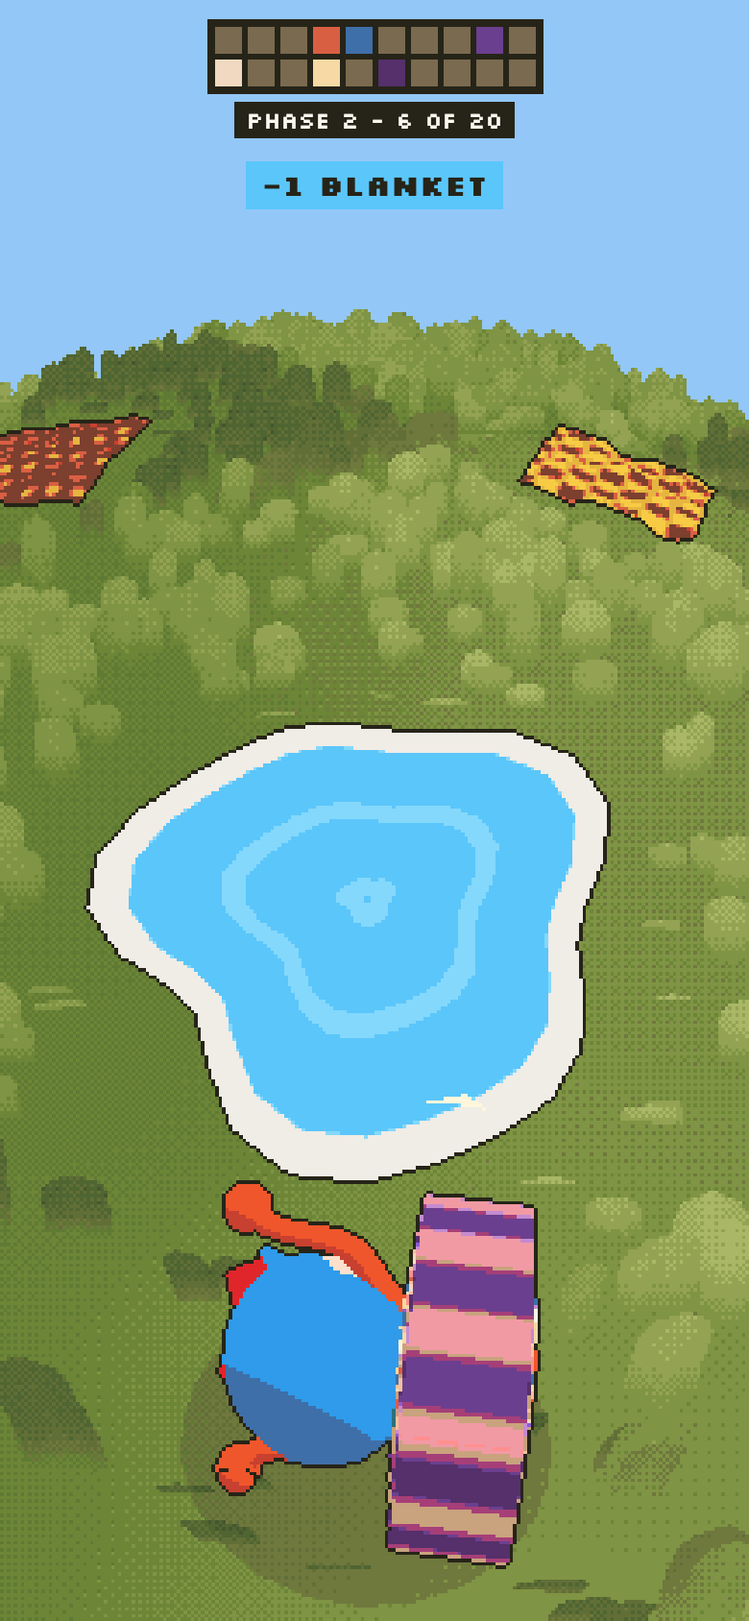
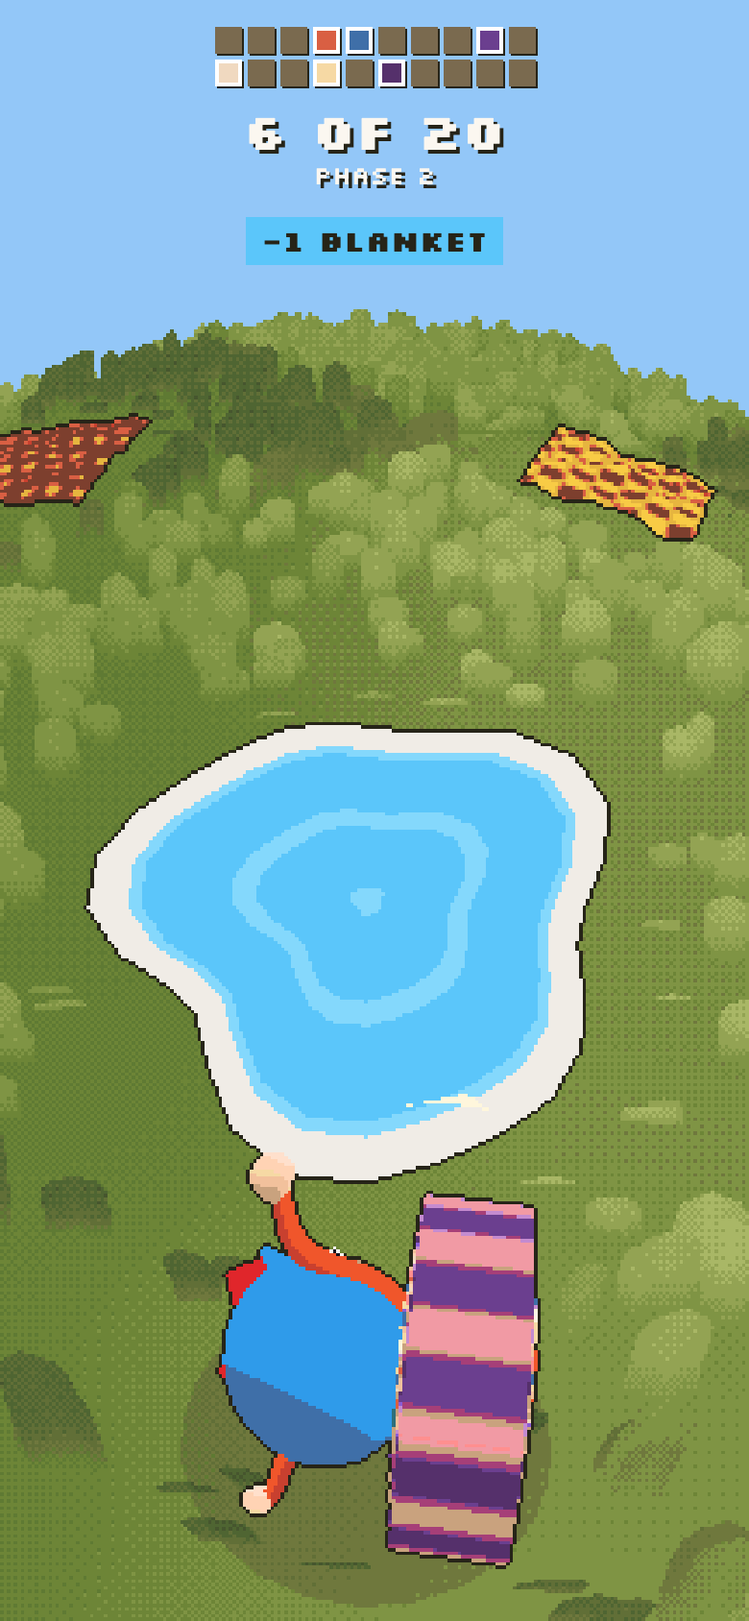
Show phase below larger blanket count

diff --git a/index.html b/index.html
@@ -58,7 +58,9 @@ button:focus-visible { outline: 2px solid var(--paper); outline-offset: 2px; }
 #pips.dense { grid-template-columns: repeat(20, 8px); gap: 2px; }
 #pips.dense i { width: 8px; height: 8px; }
 #pips.dense i.on { box-shadow: inset 0 0 0 1px #fff; }
-#count { padding: 2px 6px; font-size: 14px; font-weight: 700; font-variant-numeric: tabular-nums; text-shadow: 2px 2px 0 var(--ink); }
+#count { display: flex; flex-direction: column; align-items: center; gap: 2px; padding: 2px 6px; font-variant-numeric: tabular-nums; text-shadow: 2px 2px 0 var(--ink); }
+#count-amount { font-size: 26px; font-weight: 700; line-height: 1.05; }
+#count-phase { font-size: 13px; line-height: 1.1; }
 #toast { margin-top: 8px; padding: 3px 8px; background: #5bc6fa; color: var(--ink); font-size: 15px; font-weight: 700; }
 #hint { position: absolute; left: 50%; top: calc(100dvh - env(safe-area-inset-top) - 52px); width: max-content; max-width: 92%; margin: 0; padding: 3px 6px; transform: translateX(-50%); background: var(--ink); font-size: 10px; text-align: center; }
 #hint.gone { display: none; }
@@ -77,7 +79,7 @@ button:focus-visible { outline: 2px solid var(--paper); outline-offset: 2px; }
 
     <section id="hud" class="hidden" aria-label="Blankets collected">
       <div id="pips" aria-hidden="true"></div>
-      <div id="count" role="status">Phase 1 - 0 of 10</div>
+      <div id="count" role="status"><span id="count-amount">0 of 10</span> <span id="count-phase">Phase 1</span></div>
       <div id="toast" class="hidden" role="status"></div>
       <p id="hint">Drag or use arrow keys to roll</p>
     </section>
@@ -4203,7 +4205,7 @@ ${r.vertexShader}`.replace("#include <begin_vertex>",`#include <begin_vertex>
        float along = clamp(wave / uLength, 0.0, 1.0);
        float reach = along * along * (3.0 - 2.0 * along);
        transformed.x += uAmount * reach * sin(wave * 3.3 - uT * 8.5 + uPhase);
-       transformed.z += uAmount * 0.75 * reach * cos(wave * 2.6 - uT * 6.7 + uPhase * 1.7);`)},s}function ou(i,t,e){let n={value:.2*t.hillWiggle},s=ru*t.hillArmLength;return{arms:i.userData.arms.map(({group:o,side:a})=>{o.visible=!1;let c=new Pe;c.position.copy(o.position);let l=new qt(Sx(t),bx(e,n,a>0?0:2.3,s));return l.castShadow=!0,c.add(l),i.add(c),{pivot:c,side:a}}),wiggle:n}}function au(i){for(let{pivot:t}of i.arms)t.children[0].geometry.dispose(),t.children[0].material.dispose()}function cu(i,t,e){let n=$i.degToRad(t.hillArmSpread),s=nu+(n-nu)*e;for(let{pivot:r,side:o}of i.arms)r.rotation.z=-o*s}function lu(i,t){i.geometry.computeBoundingBox();let e=i.geometry.boundingBox,n=yx*t.hillSize,s=n/(e.max.y-e.min.y),r=(e.max.y+e.min.y)/2*s,o=(Mx+.3*(t.legLength-1))*t.bodySize*s-r+.03,a=e.min.y*s-r+.16;return{fit:s,middle:r,top:o,bottom:a,height:n}}var Ex=26,hu=16,wx=.3,Gc=26,uu=i=>Math.atan2(Math.sin(i),Math.cos(i)),Tx=i=>iu+su*Math.min(i,10)+.09*Math.max(Math.min(i,20)-10,0)+.04*Math.max(i-20,0),ho=class{constructor(t){this.root=new Pe,this.lay=new Pe,this.spin=new Pe,this.root.add(this.lay),this.lay.add(this.spin),t.add(this.root),this.time={value:0},this.holder=new Pe,this.spin.add(this.holder),this.layers=[],this.armLift=0,this.shadow=new qt(new Xi(1,24),new zn({color:"#2f3a22",transparent:!0,opacity:.28,depthWrite:!1})),t.add(this.shadow),this.slope={x:0,z:0},Object.assign(this,{x:0,z:2.2,yaw:0,rollAngle:0,layAmount:0}),this.setCharacter(hn[0]),this.reset(0,2.2)}setCharacter(t){this.figure&&(this.holder.remove(this.figure),this.figure.traverse(s=>s.geometry?.dispose()),au(this.armRig)),this.def=t;let e=Gh(t);this.figure=e,this.holder.add(e),this.armRig=ou(e,t,this.time);let n=lu(e,t);this.holder.scale.setScalar(n.fit),this.holder.position.y=-n.middle,this.standHeight=n.height/2,this.baseRadius=Math.max(.72,.6*t.headSize*n.fit),this.wrapLength=n.top-n.bottom,this.wrapCenter=(n.top+n.bottom)/2;for(let s of this.layers)s.mesh.position.y=this.wrapCenter;this.setArms(this.armLift),this.radius=this.baseRadius,this.place()}setArms(t){this.armLift=t,cu(this.armRig,this.def,t)}reset(t,e){this.x=t,this.z=e,this.vx=0,this.vz=0,this.yaw=0,this.rollAngle=0,this.layAmount=0,this.radius=this.baseRadius,this.distance=0,this.clearWrap(),this.setArms(0),this.place()}get speed(){return Math.hypot(this.vx,this.vz)}removeLayer(t){this.spin.remove(t.mesh),t.mesh.geometry.dispose(),t.mesh.material.forEach(e=>e.dispose())}clearWrap(){for(let t of[...this.layers,...this.loose??[]])this.removeLayer(t);this.layers=[],this.loose=[],this.unwinding=0}wrap(t){let e=new tn({...ci,map:t.map}),n=new tn({...ci,color:t.design.b}),s=new Fe(1,1,1,30),r=s.attributes.uv;for(let c=0;c<r.count;c++)r.setXY(c,r.getX(c)*3,r.getY(c));let o=new qt(s,[e,n,n]);o.position.y=this.wrapCenter,this.spin.add(o);let a=this.layers.length?this.layers.at(-1).radius:.5;this.layers.push({item:t,mesh:o,radius:a,goal:Tx(this.layers.length)*this.def.hillSize})}peel(){let t=this.layers.pop();return t?(this.removeLayer(t),t.item):null}unwind(){this.loose=this.layers,this.layers=[],this.unwinding=.5}updateLayers(t){if(this.unwinding>0){this.unwinding=Math.max(0,this.unwinding-t);let s=this.unwinding/.5;for(let r of this.loose)r.radius=.2+(r.radius-.2)*s,r.mesh.scale.x=r.mesh.scale.z=r.radius;this.unwinding===0&&(this.loose.forEach(r=>this.removeLayer(r)),this.loose=[])}let e=this.layers.length,n=this.baseRadius;this.layers.forEach((s,r)=>{s.radius+=(s.goal-s.radius)*(1-Math.exp(-11*t)),s.mesh.scale.set(s.radius,this.wrapLength+(e-r)*Math.min(.035,.7/e),s.radius),n=Math.max(n,s.radius)}),this.radius+=(n-this.radius)*(1-Math.exp(-9*t))}update(t,e,n,s){if(this.time.value+=t*this.def.hillWiggleSpeed,this.updateLayers(t),s){let r=Bc(this.x,this.z,this.slope),o=Ex/(1+r.x*r.x+r.z*r.z);this.vx+=(-r.x*o+e*hu)*t,this.vz+=(-r.z*o+n*hu)*t;let a=Math.exp(-wx*t);this.vx*=a,this.vz*=a;let c=this.speed;if(c>Gc&&(this.vx*=Gc/c,this.vz*=Gc/c),this.x+=this.vx*t,this.z+=this.vz*t,this.keepInWorld(),this.speed>.4){let h=Math.atan2(-this.vx,-this.vz),u=uu(h-this.yaw),f=uu(h+Math.PI-this.yaw);this.yaw+=(Math.abs(u)<Math.abs(f)?u:f)*(1-Math.exp(-7*t))}let l=-Math.sin(this.yaw)*this.vx-Math.cos(this.yaw)*this.vz;this.rollAngle-=l*t/this.radius,this.distance+=this.speed*t,this.armRig.wiggle.value=(.2+Math.min(.16,this.speed*.012))*this.def.hillWiggle}else this.armRig.wiggle.value=.22*this.def.hillWiggle;this.place()}keepInWorld(){let t=Math.hypot(this.x,this.z);if(t<=128)return;let e=this.x/t,n=this.z/t;this.x=e*128,this.z=n*128;let s=this.vx*e+this.vz*n;s>0&&(this.vx-=s*e*1.3,this.vz-=s*n*1.3)}place(){let t=de(this.x,this.z),e=Bc(this.x,this.z,this.slope),n=new R(-e.x,1,-e.z).normalize(),s=new R(0,1,0).lerp(n,this.layAmount).normalize(),r=new R(-Math.sin(this.yaw),0,-Math.cos(this.yaw));r.addScaledVector(s,-r.dot(s)).normalize();let o=r.clone().negate(),a=new R().crossVectors(s,o).normalize();this.root.quaternion.setFromRotationMatrix(new Qt().makeBasis(a,s,o));let c=this.standHeight+(this.radius-this.standHeight)*this.layAmount;this.root.position.set(this.x,t,this.z).addScaledVector(s,c),this.lay.rotation.z=-Math.PI/2*this.layAmount,this.spin.rotation.y=this.rollAngle,this.shadow.position.set(this.x,t+.34,this.z).addScaledVector(n,.05),this.shadow.quaternion.setFromUnitVectors(new R(0,0,1),n);let l=.3+this.radius*.95;this.shadow.scale.set(l,l,1)}};var fu=[0,2,4,7,9,12,14,16,19,21],du="blanket-hill-sound",uo=class{constructor(){try{this.enabled=localStorage.getItem(du)!=="off"}catch{this.enabled=!0}this.ctx=null;let t=()=>{if(!this.ctx){let e=window.AudioContext||window.webkitAudioContext;if(!e)return;this.ctx=new e,this.master=this.ctx.createGain(),this.master.gain.value=this.enabled?.22:0,this.master.connect(this.ctx.destination)}this.ctx.state==="suspended"&&this.ctx.resume()};addEventListener("pointerdown",t),addEventListener("keydown",t)}toggle(){this.enabled=!this.enabled;try{localStorage.setItem(du,this.enabled?"on":"off")}catch{}return this.master&&(this.master.gain.value=this.enabled?.22:0),this.enabled}tone(t,e,n,s){if(!this.enabled||this.ctx?.state!=="running")return;let r=this.ctx.currentTime+e,o=this.ctx.createOscillator(),a=this.ctx.createGain();o.type="sine",o.frequency.value=t,a.gain.setValueAtTime(.001,r),a.gain.exponentialRampToValueAtTime(s,r+.02),a.gain.exponentialRampToValueAtTime(.001,r+n),o.connect(a),a.connect(this.master),o.start(r),o.stop(r+n+.02)}wrap(t){let e=330*2**(fu[t%fu.length]/12);this.tone(e,0,.32,.5),this.tone(e*2,.05,.2,.16)}splash(){this.tone(520,0,.12,.3),this.tone(340,.05,.16,.26),this.tone(220,.11,.22,.22)}snug(){[262,330,392,523,659].forEach((t,e)=>this.tone(t,e*.09,.9,.34))}};var Os=2.1,Ax=3.2,fo=58,Rx=1.2,Cx=1.1,Ix=.24,Px=.37,Bs=216,pu="blanket-hill-character",mu="#fff6dc",Lx=["#262418","#3f4e2c","#46562e","#4f6532","#5f7a33","#616f37","#6d8537","#6f783d","#7f9444","#93a353","#a9b766",...Fs],Dx=[mu,"#262418","#ffffff","#fbf7f0","#17131f",...ts,...Ns.flatMap(i=>[i.a,i.b])],Ux=()=>{let i=hn.findIndex(t=>t.id===new URLSearchParams(location.search).get("character"));if(i>=0)return i;try{return Math.max(0,hn.findIndex(t=>t.id===localStorage.getItem(pu)))}catch{return 0}},jt=i=>document.getElementById(i),Wc=(i,t,e)=>$i.smoothstep(e,i,t),Xc=class{constructor(){let t=matchMedia("(prefers-reduced-motion: reduce)").matches;this.canvas=jt("game"),this.renderer=new Rr({canvas:this.canvas,antialias:!1}),this.renderer.setPixelRatio(1),this.pipeline=new eo(this.renderer,Bs,Bs*2,{palette:Lx,accents:Dx,drawnSky:!0}),this.scene=new Gi,this.scene.fog=new Cr("#6f783d",90,240),this.camera=new Ce(60,1,.1,900);let e=new Hr("#f2f6fa","#b9b27e",1.75),n=new Vr("#fff8ec",2.5);n.position.set(18,60,34),this.scene.add(e,n);for(let s of[e,n])s.layers.enable(li);this.scenery=new oo(this.scene,t),this.blankets=new io(this.scene),this.puddles=new lo(this.scene),this.player=new ho(this.scene),this.sound=new uo,this.pointer=this.makePointer(),this.mode="menu",this.clock=0,this.time=0,this.rounds=0,this.phase=0,this.safe=0,this.toastTimer=0,this.heading=0,this.keys=new Set,this.stick={id:null,x:0,y:0,ox:0,oy:0},this.look=new R(0,de(0,2)+1,2),this.camera.position.set(0,de(0,2)+2.2,11.6),this.buildPicker(),this.selectCharacter(Ux()),this.setupPhase(),this.bindInput(),addEventListener("resize",()=>this.resize()),this.resize(),this.last=performance.now(),this.renderer.setAnimationLoop(s=>this.frame(s))}makePointer(){let t=new ni;t.moveTo(0,.62),t.lineTo(.44,-.3),t.lineTo(0,-.08),t.lineTo(-.44,-.3),t.closePath();let e=new Yi(t);e.rotateX(-Math.PI/2);let n=new qt(e,new zn({color:mu,depthTest:!1,side:Ie,fog:!1}));return n.renderOrder=5,n.visible=!1,n.layers.enable(li),this.scene.add(n),n}buildPicker(){jt("char-prev").addEventListener("click",()=>this.cycleCharacter(-1)),jt("char-next").addEventListener("click",()=>this.cycleCharacter(1))}cycleCharacter(t){this.mode==="menu"&&this.selectCharacter((this.charIndex+t+hn.length)%hn.length)}selectCharacter(t){this.charIndex=t;let e=hn[t];this.player.setCharacter(e),jt("char-name").textContent=e.name;try{localStorage.setItem(pu,e.id)}catch{}}get goal(){return ui[this.phase].blankets}setupPhase(){let{player:t,puddles:e,blankets:n}=this,{blankets:s,puddles:r}=ui[this.phase];e.scatter(r,t.x,t.z),n.scatter(s,t.x,t.z,e.active),jt("pips").replaceChildren(...n.items.slice(0,s).map(o=>{let a=document.createElement("i");return a.style.setProperty("--pip",o.design.a),a})),jt("pips").classList.toggle("dense",s>20),this.showCount(0),this.scenery.setClearings(n.items,e.items,t.x,t.z)}showCount(t){jt("count").textContent=`Phase ${this.rounds+1} - ${t} of ${this.goal}`}toast(t){jt("toast").textContent=t,jt("toast").classList.remove("hidden"),this.toastTimer=Cx}bindInput(){jt("btn-start").addEventListener("click",()=>this.start());let t=s=>{jt("btn-sound").setAttribute("aria-label",s?"Sound on":"Sound off"),jt("btn-sound").setAttribute("aria-pressed",s)};jt("btn-sound").addEventListener("click",()=>t(this.sound.toggle())),t(this.sound.enabled),addEventListener("keydown",s=>{["ArrowLeft","ArrowRight","ArrowUp","ArrowDown","KeyA","KeyD","KeyW","KeyS"].includes(s.code)&&(this.keys.add(s.code),s.preventDefault()),s.code==="Enter"&&this.mode==="menu"&&!s.target.closest?.("button, a")&&this.start(),!s.repeat&&(s.code==="ArrowLeft"||s.code==="KeyA")&&this.cycleCharacter(-1),!s.repeat&&(s.code==="ArrowRight"||s.code==="KeyD")&&this.cycleCharacter(1)}),addEventListener("keyup",s=>this.keys.delete(s.code)),addEventListener("blur",()=>this.keys.clear());let e=this.stick;this.canvas.addEventListener("pointerdown",s=>{e.id===null&&(e.id=s.pointerId,e.ox=s.clientX,e.oy=s.clientY,e.x=e.y=0,this.canvas.setPointerCapture(s.pointerId),this.showStick(s.clientX,s.clientY))}),this.canvas.addEventListener("pointermove",s=>{if(s.pointerId!==e.id)return;let r=s.clientX-e.ox,o=s.clientY-e.oy,a=Math.hypot(r,o),c=a>fo?fo/a:1;e.x=r*c/fo,e.y=-o*c/fo,jt("stick-thumb").style.transform=`translate(${r*c}px, ${o*c}px)`});let n=s=>{s.pointerId===e.id&&(e.id=null,e.x=e.y=0,jt("stick").classList.add("hidden"))};this.canvas.addEventListener("pointerup",n),this.canvas.addEventListener("pointercancel",n)}showStick(t,e){if(this.mode!=="roll"&&this.mode!=="snug")return;let n=jt("stick");n.style.left=`${t}px`,n.style.top=`${e}px`,jt("stick-thumb").style.transform="",n.classList.remove("hidden")}resize(){let t=this.canvas.parentElement.getBoundingClientRect(),e=Math.round(Bs*t.height/t.width);this.renderer.setSize(Bs,e,!1),this.pipeline.setSize(Bs,e),this.camera.aspect=t.width/t.height,this.camera.updateProjectionMatrix()}start(){this.mode==="menu"&&(jt("menu").classList.add("hidden"),jt("hud").classList.remove("hidden"),this.mode="intro",this.clock=0,jt("hint").classList.remove("gone"))}steer(){let t=this.keys,e=this.stick.x+(t.has("ArrowRight")||t.has("KeyD")?1:0)-(t.has("ArrowLeft")||t.has("KeyA")?1:0),n=this.stick.y+(t.has("ArrowUp")||t.has("KeyW")?1:0)-(t.has("ArrowDown")||t.has("KeyS")?1:0),s=Math.hypot(e,n);s>1&&(e/=s,n/=s),s>.08&&jt("hint").classList.add("gone");let r=Math.sin(this.heading),o=Math.cos(this.heading);return{x:-o*e+r*n,z:r*e+o*n}}wrapBlanket(t){let{player:e}=this;e.wrap(t);let n=e.layers.length;if(this.sound.wrap(n-1),jt("pips").children[this.blankets.items.indexOf(t)].classList.add("on"),this.showCount(n),n===this.goal){this.mode="snug",this.clock=0,this.rounds++,this.sound.snug(),jt("snug").classList.remove("hidden");let s=ui[Math.min(this.phase+1,ui.length-1)].blankets;jt("snug-count").textContent=`Next up: ${s} blankets`}}splash(){let{player:t,blankets:e,puddles:n}=this;this.safe=Rx,this.sound.splash();let s=t.root.position.clone(),r=t.peel();if(!r){this.toast("Splash!");return}e.drop(r,s,t.x,t.z,n.active),jt("pips").children[e.items.indexOf(r)].classList.remove("on"),this.showCount(t.layers.length),this.toast("-1 blanket")}newRound(){this.phase=Math.min(this.phase+1,ui.length-1),this.player.unwind(),this.setupPhase(),jt("snug").classList.add("hidden"),this.mode="roll"}step(t){let{player:e,blankets:n}=this;if(this.time+=t,this.clock+=t,this.mode==="menu")e.setArms(.5+.5*Math.sin(this.time*1.4)),e.update(t,0,0,!1);else if(this.mode==="intro")e.setArms(Wc(.25,.85,this.clock)),e.layAmount=Wc(Os-.5,Os,this.clock),e.update(t,0,0,!1),this.clock>=Os&&(e.setArms(1),e.layAmount=1,e.vz=3.5,this.mode="roll");else{let r=this.steer();e.update(t,r.x,r.z,!0);for(let o of n.update(t,this.time,e))this.mode==="roll"&&this.wrapBlanket(o);this.mode==="snug"&&this.clock>=Ax&&this.newRound()}(this.mode==="menu"||this.mode==="intro")&&n.update(t,this.time,{x:1e6,z:1e6,radius:0,root:e.root}),this.safe=Math.max(0,this.safe-t),this.puddles.update(t,e,this.mode==="roll"&&this.safe===0)&&this.splash(),e.root.visible=this.safe===0||Math.floor(this.safe*12)%2===0,this.toastTimer>0&&(this.toastTimer-=t,this.toastTimer<=0&&jt("toast").classList.add("hidden")),this.scenery.setClearings(n.items,this.puddles.items,e.x,e.z),this.updatePointer(),this.updateCamera(t);let s={x:Math.sin(this.heading),z:Math.cos(this.heading)};this.scenery.update(t,this.camera,e,s)}updatePointer(){let{player:t,pointer:e}=this,n=this.mode==="roll"?this.blankets.nearest(t.x,t.z):null;if(e.visible=!!n&&n.distance>9,!e.visible)return;let s=n.item.x-t.x,r=n.item.z-t.z,o=Math.atan2(s,r),a=t.radius+1.9,c=t.x+Math.sin(o)*a,l=t.z+Math.cos(o)*a;e.position.set(c,de(c,l)+.75,l),e.rotation.y=o+Math.PI,e.scale.setScalar(1+.08*Math.sin(this.time*5))}updateCamera(t){let{player:e,camera:n,look:s}=this,r=e.root.position,o=new R,a=new R;if(this.mode==="menu"){let l=Math.sin(this.time*.25)*.18,h=e.def.hillSize;o.set(r.x+Math.sin(l)*9.4*h,r.y+.7*h,r.z+Math.cos(l)*9.4*h),a.set(r.x,r.y,r.z)}else if(this.mode==="intro"){let l=Wc(Os-.7,Os,this.clock),h=9*e.def.hillSize;o.set(r.x,r.y+.7+6*l,r.z+h-(h+10)*l),a.set(r.x,r.y+.2,r.z+3*l)}else{if(e.speed>2){let m=Math.atan2(e.vx,e.vz),p=Math.atan2(Math.sin(m-this.heading),Math.cos(m-this.heading));this.heading+=p*(1-Math.exp(-1.7*Math.min(1,e.speed/10)*t))}let l=9+e.radius*2,h=Math.sin(this.heading),u=Math.cos(this.heading);o.set(r.x-h*l,r.y+3+e.radius*.8,r.z-u*l),o.y=Math.max(o.y,de(o.x,o.z)+2.8);let f=-1/0;for(let m=8;m<=96;m+=8){let p=de(o.x+h*m,o.z+u*m);f=Math.max(f,Math.atan2(p-o.y,m))}let d=Math.atan2(r.y-o.y,l),g=Math.max(d,Math.min(f-Ix,d+Px)),x=Math.tan(g);a.set(o.x+h*20,o.y+x*20,o.z+u*20)}o.y=Math.max(o.y,de(o.x,o.z)+2.8);let c=1-Math.exp(-(this.mode==="roll"||this.mode==="snug"?6:4.5)*t);n.position.lerp(o,c),n.position.y=Math.max(n.position.y,de(n.position.x,n.position.z)+2.2),s.lerp(a,1-Math.exp(-8*t)),n.lookAt(s)}frame(t){let e=Math.min(.05,Math.max(0,(t-this.last)/1e3));this.last=t,this.step(e),this.draw()}draw(){this.player.root.traverse(t=>t.layers.enable(li));for(let t of this.blankets.items)t.mesh.layers.enable(li);for(let t of this.puddles.items)t.mesh.layers.enable(li);this.pipeline.render(this.scene,this.camera)}},Nx=new Xc;location.search.includes("debug")&&(window.__blanket=Nx);
+       transformed.z += uAmount * 0.75 * reach * cos(wave * 2.6 - uT * 6.7 + uPhase * 1.7);`)},s}function ou(i,t,e){let n={value:.2*t.hillWiggle},s=ru*t.hillArmLength;return{arms:i.userData.arms.map(({group:o,side:a})=>{o.visible=!1;let c=new Pe;c.position.copy(o.position);let l=new qt(Sx(t),bx(e,n,a>0?0:2.3,s));return l.castShadow=!0,c.add(l),i.add(c),{pivot:c,side:a}}),wiggle:n}}function au(i){for(let{pivot:t}of i.arms)t.children[0].geometry.dispose(),t.children[0].material.dispose()}function cu(i,t,e){let n=$i.degToRad(t.hillArmSpread),s=nu+(n-nu)*e;for(let{pivot:r,side:o}of i.arms)r.rotation.z=-o*s}function lu(i,t){i.geometry.computeBoundingBox();let e=i.geometry.boundingBox,n=yx*t.hillSize,s=n/(e.max.y-e.min.y),r=(e.max.y+e.min.y)/2*s,o=(Mx+.3*(t.legLength-1))*t.bodySize*s-r+.03,a=e.min.y*s-r+.16;return{fit:s,middle:r,top:o,bottom:a,height:n}}var Ex=26,hu=16,wx=.3,Gc=26,uu=i=>Math.atan2(Math.sin(i),Math.cos(i)),Tx=i=>iu+su*Math.min(i,10)+.09*Math.max(Math.min(i,20)-10,0)+.04*Math.max(i-20,0),ho=class{constructor(t){this.root=new Pe,this.lay=new Pe,this.spin=new Pe,this.root.add(this.lay),this.lay.add(this.spin),t.add(this.root),this.time={value:0},this.holder=new Pe,this.spin.add(this.holder),this.layers=[],this.armLift=0,this.shadow=new qt(new Xi(1,24),new zn({color:"#2f3a22",transparent:!0,opacity:.28,depthWrite:!1})),t.add(this.shadow),this.slope={x:0,z:0},Object.assign(this,{x:0,z:2.2,yaw:0,rollAngle:0,layAmount:0}),this.setCharacter(hn[0]),this.reset(0,2.2)}setCharacter(t){this.figure&&(this.holder.remove(this.figure),this.figure.traverse(s=>s.geometry?.dispose()),au(this.armRig)),this.def=t;let e=Gh(t);this.figure=e,this.holder.add(e),this.armRig=ou(e,t,this.time);let n=lu(e,t);this.holder.scale.setScalar(n.fit),this.holder.position.y=-n.middle,this.standHeight=n.height/2,this.baseRadius=Math.max(.72,.6*t.headSize*n.fit),this.wrapLength=n.top-n.bottom,this.wrapCenter=(n.top+n.bottom)/2;for(let s of this.layers)s.mesh.position.y=this.wrapCenter;this.setArms(this.armLift),this.radius=this.baseRadius,this.place()}setArms(t){this.armLift=t,cu(this.armRig,this.def,t)}reset(t,e){this.x=t,this.z=e,this.vx=0,this.vz=0,this.yaw=0,this.rollAngle=0,this.layAmount=0,this.radius=this.baseRadius,this.distance=0,this.clearWrap(),this.setArms(0),this.place()}get speed(){return Math.hypot(this.vx,this.vz)}removeLayer(t){this.spin.remove(t.mesh),t.mesh.geometry.dispose(),t.mesh.material.forEach(e=>e.dispose())}clearWrap(){for(let t of[...this.layers,...this.loose??[]])this.removeLayer(t);this.layers=[],this.loose=[],this.unwinding=0}wrap(t){let e=new tn({...ci,map:t.map}),n=new tn({...ci,color:t.design.b}),s=new Fe(1,1,1,30),r=s.attributes.uv;for(let c=0;c<r.count;c++)r.setXY(c,r.getX(c)*3,r.getY(c));let o=new qt(s,[e,n,n]);o.position.y=this.wrapCenter,this.spin.add(o);let a=this.layers.length?this.layers.at(-1).radius:.5;this.layers.push({item:t,mesh:o,radius:a,goal:Tx(this.layers.length)*this.def.hillSize})}peel(){let t=this.layers.pop();return t?(this.removeLayer(t),t.item):null}unwind(){this.loose=this.layers,this.layers=[],this.unwinding=.5}updateLayers(t){if(this.unwinding>0){this.unwinding=Math.max(0,this.unwinding-t);let s=this.unwinding/.5;for(let r of this.loose)r.radius=.2+(r.radius-.2)*s,r.mesh.scale.x=r.mesh.scale.z=r.radius;this.unwinding===0&&(this.loose.forEach(r=>this.removeLayer(r)),this.loose=[])}let e=this.layers.length,n=this.baseRadius;this.layers.forEach((s,r)=>{s.radius+=(s.goal-s.radius)*(1-Math.exp(-11*t)),s.mesh.scale.set(s.radius,this.wrapLength+(e-r)*Math.min(.035,.7/e),s.radius),n=Math.max(n,s.radius)}),this.radius+=(n-this.radius)*(1-Math.exp(-9*t))}update(t,e,n,s){if(this.time.value+=t*this.def.hillWiggleSpeed,this.updateLayers(t),s){let r=Bc(this.x,this.z,this.slope),o=Ex/(1+r.x*r.x+r.z*r.z);this.vx+=(-r.x*o+e*hu)*t,this.vz+=(-r.z*o+n*hu)*t;let a=Math.exp(-wx*t);this.vx*=a,this.vz*=a;let c=this.speed;if(c>Gc&&(this.vx*=Gc/c,this.vz*=Gc/c),this.x+=this.vx*t,this.z+=this.vz*t,this.keepInWorld(),this.speed>.4){let h=Math.atan2(-this.vx,-this.vz),u=uu(h-this.yaw),f=uu(h+Math.PI-this.yaw);this.yaw+=(Math.abs(u)<Math.abs(f)?u:f)*(1-Math.exp(-7*t))}let l=-Math.sin(this.yaw)*this.vx-Math.cos(this.yaw)*this.vz;this.rollAngle-=l*t/this.radius,this.distance+=this.speed*t,this.armRig.wiggle.value=(.2+Math.min(.16,this.speed*.012))*this.def.hillWiggle}else this.armRig.wiggle.value=.22*this.def.hillWiggle;this.place()}keepInWorld(){let t=Math.hypot(this.x,this.z);if(t<=128)return;let e=this.x/t,n=this.z/t;this.x=e*128,this.z=n*128;let s=this.vx*e+this.vz*n;s>0&&(this.vx-=s*e*1.3,this.vz-=s*n*1.3)}place(){let t=de(this.x,this.z),e=Bc(this.x,this.z,this.slope),n=new R(-e.x,1,-e.z).normalize(),s=new R(0,1,0).lerp(n,this.layAmount).normalize(),r=new R(-Math.sin(this.yaw),0,-Math.cos(this.yaw));r.addScaledVector(s,-r.dot(s)).normalize();let o=r.clone().negate(),a=new R().crossVectors(s,o).normalize();this.root.quaternion.setFromRotationMatrix(new Qt().makeBasis(a,s,o));let c=this.standHeight+(this.radius-this.standHeight)*this.layAmount;this.root.position.set(this.x,t,this.z).addScaledVector(s,c),this.lay.rotation.z=-Math.PI/2*this.layAmount,this.spin.rotation.y=this.rollAngle,this.shadow.position.set(this.x,t+.34,this.z).addScaledVector(n,.05),this.shadow.quaternion.setFromUnitVectors(new R(0,0,1),n);let l=.3+this.radius*.95;this.shadow.scale.set(l,l,1)}};var fu=[0,2,4,7,9,12,14,16,19,21],du="blanket-hill-sound",uo=class{constructor(){try{this.enabled=localStorage.getItem(du)!=="off"}catch{this.enabled=!0}this.ctx=null;let t=()=>{if(!this.ctx){let e=window.AudioContext||window.webkitAudioContext;if(!e)return;this.ctx=new e,this.master=this.ctx.createGain(),this.master.gain.value=this.enabled?.22:0,this.master.connect(this.ctx.destination)}this.ctx.state==="suspended"&&this.ctx.resume()};addEventListener("pointerdown",t),addEventListener("keydown",t)}toggle(){this.enabled=!this.enabled;try{localStorage.setItem(du,this.enabled?"on":"off")}catch{}return this.master&&(this.master.gain.value=this.enabled?.22:0),this.enabled}tone(t,e,n,s){if(!this.enabled||this.ctx?.state!=="running")return;let r=this.ctx.currentTime+e,o=this.ctx.createOscillator(),a=this.ctx.createGain();o.type="sine",o.frequency.value=t,a.gain.setValueAtTime(.001,r),a.gain.exponentialRampToValueAtTime(s,r+.02),a.gain.exponentialRampToValueAtTime(.001,r+n),o.connect(a),a.connect(this.master),o.start(r),o.stop(r+n+.02)}wrap(t){let e=330*2**(fu[t%fu.length]/12);this.tone(e,0,.32,.5),this.tone(e*2,.05,.2,.16)}splash(){this.tone(520,0,.12,.3),this.tone(340,.05,.16,.26),this.tone(220,.11,.22,.22)}snug(){[262,330,392,523,659].forEach((t,e)=>this.tone(t,e*.09,.9,.34))}};var Os=2.1,Ax=3.2,fo=58,Rx=1.2,Cx=1.1,Ix=.24,Px=.37,Bs=216,pu="blanket-hill-character",mu="#fff6dc",Lx=["#262418","#3f4e2c","#46562e","#4f6532","#5f7a33","#616f37","#6d8537","#6f783d","#7f9444","#93a353","#a9b766",...Fs],Dx=[mu,"#262418","#ffffff","#fbf7f0","#17131f",...ts,...Ns.flatMap(i=>[i.a,i.b])],Ux=()=>{let i=hn.findIndex(t=>t.id===new URLSearchParams(location.search).get("character"));if(i>=0)return i;try{return Math.max(0,hn.findIndex(t=>t.id===localStorage.getItem(pu)))}catch{return 0}},jt=i=>document.getElementById(i),Wc=(i,t,e)=>$i.smoothstep(e,i,t),Xc=class{constructor(){let t=matchMedia("(prefers-reduced-motion: reduce)").matches;this.canvas=jt("game"),this.renderer=new Rr({canvas:this.canvas,antialias:!1}),this.renderer.setPixelRatio(1),this.pipeline=new eo(this.renderer,Bs,Bs*2,{palette:Lx,accents:Dx,drawnSky:!0}),this.scene=new Gi,this.scene.fog=new Cr("#6f783d",90,240),this.camera=new Ce(60,1,.1,900);let e=new Hr("#f2f6fa","#b9b27e",1.75),n=new Vr("#fff8ec",2.5);n.position.set(18,60,34),this.scene.add(e,n);for(let s of[e,n])s.layers.enable(li);this.scenery=new oo(this.scene,t),this.blankets=new io(this.scene),this.puddles=new lo(this.scene),this.player=new ho(this.scene),this.sound=new uo,this.pointer=this.makePointer(),this.mode="menu",this.clock=0,this.time=0,this.rounds=0,this.phase=0,this.safe=0,this.toastTimer=0,this.heading=0,this.keys=new Set,this.stick={id:null,x:0,y:0,ox:0,oy:0},this.look=new R(0,de(0,2)+1,2),this.camera.position.set(0,de(0,2)+2.2,11.6),this.buildPicker(),this.selectCharacter(Ux()),this.setupPhase(),this.bindInput(),addEventListener("resize",()=>this.resize()),this.resize(),this.last=performance.now(),this.renderer.setAnimationLoop(s=>this.frame(s))}makePointer(){let t=new ni;t.moveTo(0,.62),t.lineTo(.44,-.3),t.lineTo(0,-.08),t.lineTo(-.44,-.3),t.closePath();let e=new Yi(t);e.rotateX(-Math.PI/2);let n=new qt(e,new zn({color:mu,depthTest:!1,side:Ie,fog:!1}));return n.renderOrder=5,n.visible=!1,n.layers.enable(li),this.scene.add(n),n}buildPicker(){jt("char-prev").addEventListener("click",()=>this.cycleCharacter(-1)),jt("char-next").addEventListener("click",()=>this.cycleCharacter(1))}cycleCharacter(t){this.mode==="menu"&&this.selectCharacter((this.charIndex+t+hn.length)%hn.length)}selectCharacter(t){this.charIndex=t;let e=hn[t];this.player.setCharacter(e),jt("char-name").textContent=e.name;try{localStorage.setItem(pu,e.id)}catch{}}get goal(){return ui[this.phase].blankets}setupPhase(){let{player:t,puddles:e,blankets:n}=this,{blankets:s,puddles:r}=ui[this.phase];e.scatter(r,t.x,t.z),n.scatter(s,t.x,t.z,e.active),jt("pips").replaceChildren(...n.items.slice(0,s).map(o=>{let a=document.createElement("i");return a.style.setProperty("--pip",o.design.a),a})),jt("pips").classList.toggle("dense",s>20),this.showCount(0),this.scenery.setClearings(n.items,e.items,t.x,t.z)}showCount(t){jt("count-amount").textContent=`${t} of ${this.goal}`,jt("count-phase").textContent=`Phase ${this.rounds+1}`}toast(t){jt("toast").textContent=t,jt("toast").classList.remove("hidden"),this.toastTimer=Cx}bindInput(){jt("btn-start").addEventListener("click",()=>this.start());let t=s=>{jt("btn-sound").setAttribute("aria-label",s?"Sound on":"Sound off"),jt("btn-sound").setAttribute("aria-pressed",s)};jt("btn-sound").addEventListener("click",()=>t(this.sound.toggle())),t(this.sound.enabled),addEventListener("keydown",s=>{["ArrowLeft","ArrowRight","ArrowUp","ArrowDown","KeyA","KeyD","KeyW","KeyS"].includes(s.code)&&(this.keys.add(s.code),s.preventDefault()),s.code==="Enter"&&this.mode==="menu"&&!s.target.closest?.("button, a")&&this.start(),!s.repeat&&(s.code==="ArrowLeft"||s.code==="KeyA")&&this.cycleCharacter(-1),!s.repeat&&(s.code==="ArrowRight"||s.code==="KeyD")&&this.cycleCharacter(1)}),addEventListener("keyup",s=>this.keys.delete(s.code)),addEventListener("blur",()=>this.keys.clear());let e=this.stick;this.canvas.addEventListener("pointerdown",s=>{e.id===null&&(e.id=s.pointerId,e.ox=s.clientX,e.oy=s.clientY,e.x=e.y=0,this.canvas.setPointerCapture(s.pointerId),this.showStick(s.clientX,s.clientY))}),this.canvas.addEventListener("pointermove",s=>{if(s.pointerId!==e.id)return;let r=s.clientX-e.ox,o=s.clientY-e.oy,a=Math.hypot(r,o),c=a>fo?fo/a:1;e.x=r*c/fo,e.y=-o*c/fo,jt("stick-thumb").style.transform=`translate(${r*c}px, ${o*c}px)`});let n=s=>{s.pointerId===e.id&&(e.id=null,e.x=e.y=0,jt("stick").classList.add("hidden"))};this.canvas.addEventListener("pointerup",n),this.canvas.addEventListener("pointercancel",n)}showStick(t,e){if(this.mode!=="roll"&&this.mode!=="snug")return;let n=jt("stick");n.style.left=`${t}px`,n.style.top=`${e}px`,jt("stick-thumb").style.transform="",n.classList.remove("hidden")}resize(){let t=this.canvas.parentElement.getBoundingClientRect(),e=Math.round(Bs*t.height/t.width);this.renderer.setSize(Bs,e,!1),this.pipeline.setSize(Bs,e),this.camera.aspect=t.width/t.height,this.camera.updateProjectionMatrix()}start(){this.mode==="menu"&&(jt("menu").classList.add("hidden"),jt("hud").classList.remove("hidden"),this.mode="intro",this.clock=0,jt("hint").classList.remove("gone"))}steer(){let t=this.keys,e=this.stick.x+(t.has("ArrowRight")||t.has("KeyD")?1:0)-(t.has("ArrowLeft")||t.has("KeyA")?1:0),n=this.stick.y+(t.has("ArrowUp")||t.has("KeyW")?1:0)-(t.has("ArrowDown")||t.has("KeyS")?1:0),s=Math.hypot(e,n);s>1&&(e/=s,n/=s),s>.08&&jt("hint").classList.add("gone");let r=Math.sin(this.heading),o=Math.cos(this.heading);return{x:-o*e+r*n,z:r*e+o*n}}wrapBlanket(t){let{player:e}=this;e.wrap(t);let n=e.layers.length;if(this.sound.wrap(n-1),jt("pips").children[this.blankets.items.indexOf(t)].classList.add("on"),this.showCount(n),n===this.goal){this.mode="snug",this.clock=0,this.rounds++,this.sound.snug(),jt("snug").classList.remove("hidden");let s=ui[Math.min(this.phase+1,ui.length-1)].blankets;jt("snug-count").textContent=`Next up: ${s} blankets`}}splash(){let{player:t,blankets:e,puddles:n}=this;this.safe=Rx,this.sound.splash();let s=t.root.position.clone(),r=t.peel();if(!r){this.toast("Splash!");return}e.drop(r,s,t.x,t.z,n.active),jt("pips").children[e.items.indexOf(r)].classList.remove("on"),this.showCount(t.layers.length),this.toast("-1 blanket")}newRound(){this.phase=Math.min(this.phase+1,ui.length-1),this.player.unwind(),this.setupPhase(),jt("snug").classList.add("hidden"),this.mode="roll"}step(t){let{player:e,blankets:n}=this;if(this.time+=t,this.clock+=t,this.mode==="menu")e.setArms(.5+.5*Math.sin(this.time*1.4)),e.update(t,0,0,!1);else if(this.mode==="intro")e.setArms(Wc(.25,.85,this.clock)),e.layAmount=Wc(Os-.5,Os,this.clock),e.update(t,0,0,!1),this.clock>=Os&&(e.setArms(1),e.layAmount=1,e.vz=3.5,this.mode="roll");else{let r=this.steer();e.update(t,r.x,r.z,!0);for(let o of n.update(t,this.time,e))this.mode==="roll"&&this.wrapBlanket(o);this.mode==="snug"&&this.clock>=Ax&&this.newRound()}(this.mode==="menu"||this.mode==="intro")&&n.update(t,this.time,{x:1e6,z:1e6,radius:0,root:e.root}),this.safe=Math.max(0,this.safe-t),this.puddles.update(t,e,this.mode==="roll"&&this.safe===0)&&this.splash(),e.root.visible=this.safe===0||Math.floor(this.safe*12)%2===0,this.toastTimer>0&&(this.toastTimer-=t,this.toastTimer<=0&&jt("toast").classList.add("hidden")),this.scenery.setClearings(n.items,this.puddles.items,e.x,e.z),this.updatePointer(),this.updateCamera(t);let s={x:Math.sin(this.heading),z:Math.cos(this.heading)};this.scenery.update(t,this.camera,e,s)}updatePointer(){let{player:t,pointer:e}=this,n=this.mode==="roll"?this.blankets.nearest(t.x,t.z):null;if(e.visible=!!n&&n.distance>9,!e.visible)return;let s=n.item.x-t.x,r=n.item.z-t.z,o=Math.atan2(s,r),a=t.radius+1.9,c=t.x+Math.sin(o)*a,l=t.z+Math.cos(o)*a;e.position.set(c,de(c,l)+.75,l),e.rotation.y=o+Math.PI,e.scale.setScalar(1+.08*Math.sin(this.time*5))}updateCamera(t){let{player:e,camera:n,look:s}=this,r=e.root.position,o=new R,a=new R;if(this.mode==="menu"){let l=Math.sin(this.time*.25)*.18,h=e.def.hillSize;o.set(r.x+Math.sin(l)*9.4*h,r.y+.7*h,r.z+Math.cos(l)*9.4*h),a.set(r.x,r.y,r.z)}else if(this.mode==="intro"){let l=Wc(Os-.7,Os,this.clock),h=9*e.def.hillSize;o.set(r.x,r.y+.7+6*l,r.z+h-(h+10)*l),a.set(r.x,r.y+.2,r.z+3*l)}else{if(e.speed>2){let m=Math.atan2(e.vx,e.vz),p=Math.atan2(Math.sin(m-this.heading),Math.cos(m-this.heading));this.heading+=p*(1-Math.exp(-1.7*Math.min(1,e.speed/10)*t))}let l=9+e.radius*2,h=Math.sin(this.heading),u=Math.cos(this.heading);o.set(r.x-h*l,r.y+3+e.radius*.8,r.z-u*l),o.y=Math.max(o.y,de(o.x,o.z)+2.8);let f=-1/0;for(let m=8;m<=96;m+=8){let p=de(o.x+h*m,o.z+u*m);f=Math.max(f,Math.atan2(p-o.y,m))}let d=Math.atan2(r.y-o.y,l),g=Math.max(d,Math.min(f-Ix,d+Px)),x=Math.tan(g);a.set(o.x+h*20,o.y+x*20,o.z+u*20)}o.y=Math.max(o.y,de(o.x,o.z)+2.8);let c=1-Math.exp(-(this.mode==="roll"||this.mode==="snug"?6:4.5)*t);n.position.lerp(o,c),n.position.y=Math.max(n.position.y,de(n.position.x,n.position.z)+2.2),s.lerp(a,1-Math.exp(-8*t)),n.lookAt(s)}frame(t){let e=Math.min(.05,Math.max(0,(t-this.last)/1e3));this.last=t,this.step(e),this.draw()}draw(){this.player.root.traverse(t=>t.layers.enable(li));for(let t of this.blankets.items)t.mesh.layers.enable(li);for(let t of this.puddles.items)t.mesh.layers.enable(li);this.pipeline.render(this.scene,this.camera)}},Nx=new Xc;location.search.includes("debug")&&(window.__blanket=Nx);
 </script>
 </body>
 </html>

diff --git a/src/blanket/blanket.css b/src/blanket/blanket.css
@@ -51,7 +51,9 @@ button:focus-visible { outline: 2px solid var(--paper); outline-offset: 2px; }
 #pips.dense { grid-template-columns: repeat(20, 8px); gap: 2px; }
 #pips.dense i { width: 8px; height: 8px; }
 #pips.dense i.on { box-shadow: inset 0 0 0 1px #fff; }
-#count { padding: 2px 6px; font-size: 14px; font-weight: 700; font-variant-numeric: tabular-nums; text-shadow: 2px 2px 0 var(--ink); }
+#count { display: flex; flex-direction: column; align-items: center; gap: 2px; padding: 2px 6px; font-variant-numeric: tabular-nums; text-shadow: 2px 2px 0 var(--ink); }
+#count-amount { font-size: 26px; font-weight: 700; line-height: 1.05; }
+#count-phase { font-size: 13px; line-height: 1.1; }
 #toast { margin-top: 8px; padding: 3px 8px; background: #5bc6fa; color: var(--ink); font-size: 15px; font-weight: 700; }
 #hint { position: absolute; left: 50%; top: calc(100dvh - env(safe-area-inset-top) - 52px); width: max-content; max-width: 92%; margin: 0; padding: 3px 6px; transform: translateX(-50%); background: var(--ink); font-size: 10px; text-align: center; }
 #hint.gone { display: none; }

diff --git a/src/blanket/template.html b/src/blanket/template.html
@@ -13,7 +13,7 @@
 
     <section id="hud" class="hidden" aria-label="Blankets collected">
       <div id="pips" aria-hidden="true"></div>
-      <div id="count" role="status">Phase 1 - 0 of 10</div>
+      <div id="count" role="status"><span id="count-amount">0 of 10</span> <span id="count-phase">Phase 1</span></div>
       <div id="toast" class="hidden" role="status"></div>
       <p id="hint">Drag or use arrow keys to roll</p>
     </section>

diff --git a/src/blanket/main.js b/src/blanket/main.js
@@ -138,7 +138,8 @@ class Game {
   }
 
   showCount(count) {
-    $('count').textContent = `Phase ${this.rounds + 1} - ${count} of ${this.goal}`;
+    $('count-amount').textContent = `${count} of ${this.goal}`;
+    $('count-phase').textContent = `Phase ${this.rounds + 1}`;
   }
 
   toast(text) {
